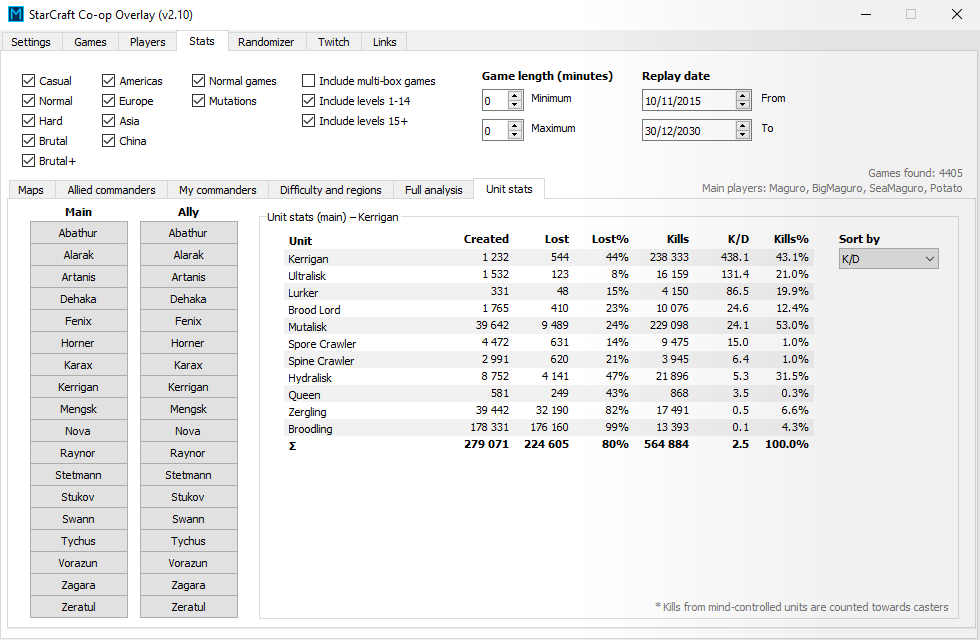
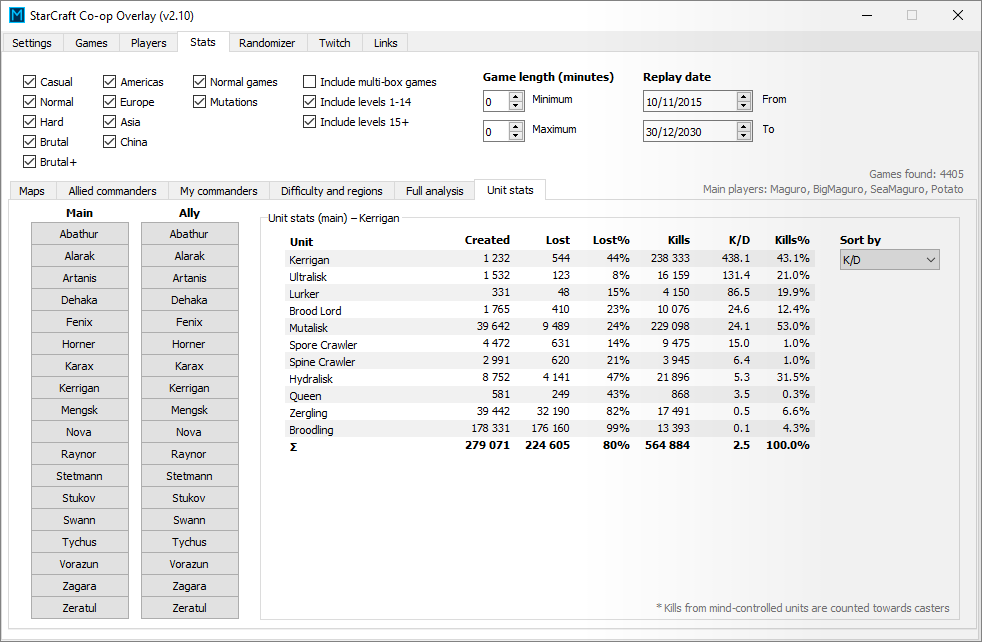
Various tweaks

diff --git a/SCOFunctions/S2Parser.py b/SCOFunctions/S2Parser.py
@@ -63,10 +63,10 @@ def s2_parse_replay(file, try_lastest=True, parse_events=True, onlyBlizzard=Fals
     contents = archive.header['user_data_header']['content']
 
     header = versions.latest().decode_replay_header(contents)
-    base_build = header['m_version']['m_baseBuild']
+    replay_build = header['m_version']['m_baseBuild']
 
     # If the build is in a known list of protocols that aren't included but work, replace the build by the version that works.
-    base_build = valid_protocols.get(base_build, base_build)
+    base_build = valid_protocols.get(replay_build, replay_build)
 
     try:
         protocol = versions.build(base_build)
@@ -121,7 +121,7 @@ def s2_parse_replay(file, try_lastest=True, parse_events=True, onlyBlizzard=Fals
     # Create output
     replay = dict()
     replay['file'] = file
-    replay['build'] = {'replay_build': base_build, 'protocol_build': used_build}
+    replay['build'] = {'replay_build': replay_build, 'protocol_build': used_build}
     replay['date'] = time.strftime('%Y:%m:%d:%H:%M:%S', time.localtime(os.path.getmtime(file)))
 
     if metadata['Title'] in map_names:

diff --git a/SCOFunctions/MUserInterface.py b/SCOFunctions/MUserInterface.py
@@ -131,13 +131,15 @@ class UnitStats(QtWidgets.QWidget):
             which = 'main' if main else 'ally'
             self.which = which
 
-        if commander == None:
+        if commander == None and not hasattr(self, 'commander'):
+            return # Don't update if user hasn't clicked anything yet (updating after a new game)
+        elif commander == None:
             commander = self.commander
         else:
             self.commander = commander
 
         # Show sort & update title
-        self.WD_units.setTitle(f'Unit stats ({which}) – {commander}')
+        self.WD_units.setTitle(f'Unit stats ({which.title()}) – {commander}')
         self.sortby.show()
         self.sortby_label.show()
       

diff --git a/SCO.py b/SCO.py
@@ -2090,8 +2090,7 @@ class UI_TabWidget(object):
         # Create tab if it's not there yey
         if not hasattr(self, 'TAB_CommUnitStats'):
             self.TAB_CommUnitStats = QtWidgets.QWidget()
-            self.TABW_StatResults.addTab(self.TAB_CommUnitStats, "")
-            self.TABW_StatResults.setTabText(self.TABW_StatResults.indexOf(self.TAB_CommUnitStats), "Unit stats")
+            self.TABW_StatResults.insertTab(4, self.TAB_CommUnitStats,  "Unit stats")
 
         # Update units widget
         if not hasattr(self, 'WD_unit_stats'):

diff --git a/SCOFunctions/MainFunctions.py b/SCOFunctions/MainFunctions.py
@@ -578,7 +578,7 @@ def check_for_new_game():
             all_users = True
             for player in players:
                 if player['type'] != 'user':
-                    all_users == False
+                    all_users = False
 
             if all_users:
                 continue
